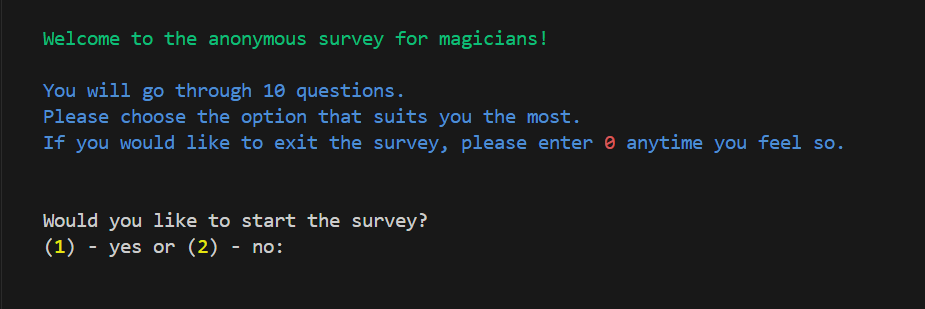
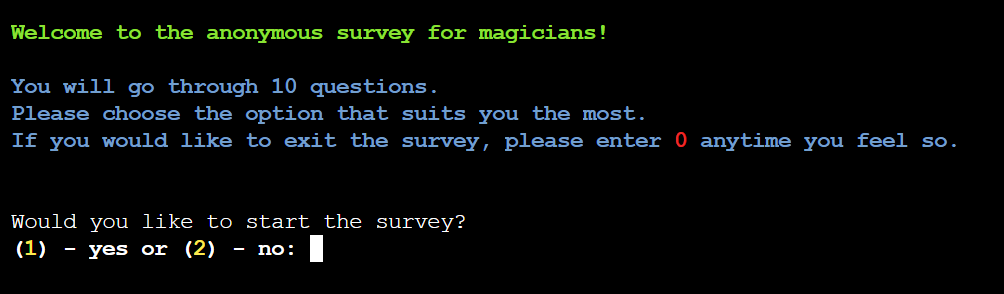
Update screenshots in readme

Changed region(s): [[0.0, 0.2449, 0.9384, 0.5204], [0.0, 0.6735, 0.4843, 0.8878], [0.0, 0.0612, 0.6054, 0.1531]]

diff --git a/README.md b/README.md
@@ -74,10 +74,6 @@ Users can do the survey and answer 10 questions. The information can be analyzed
 
 ![Yellow options](./README-images/yellow-options.png)
 
-- The tables are coloured in magenta and green.
-
-![Table](./README-images/table-color.png)
-
 
 ### Flowchart
 
